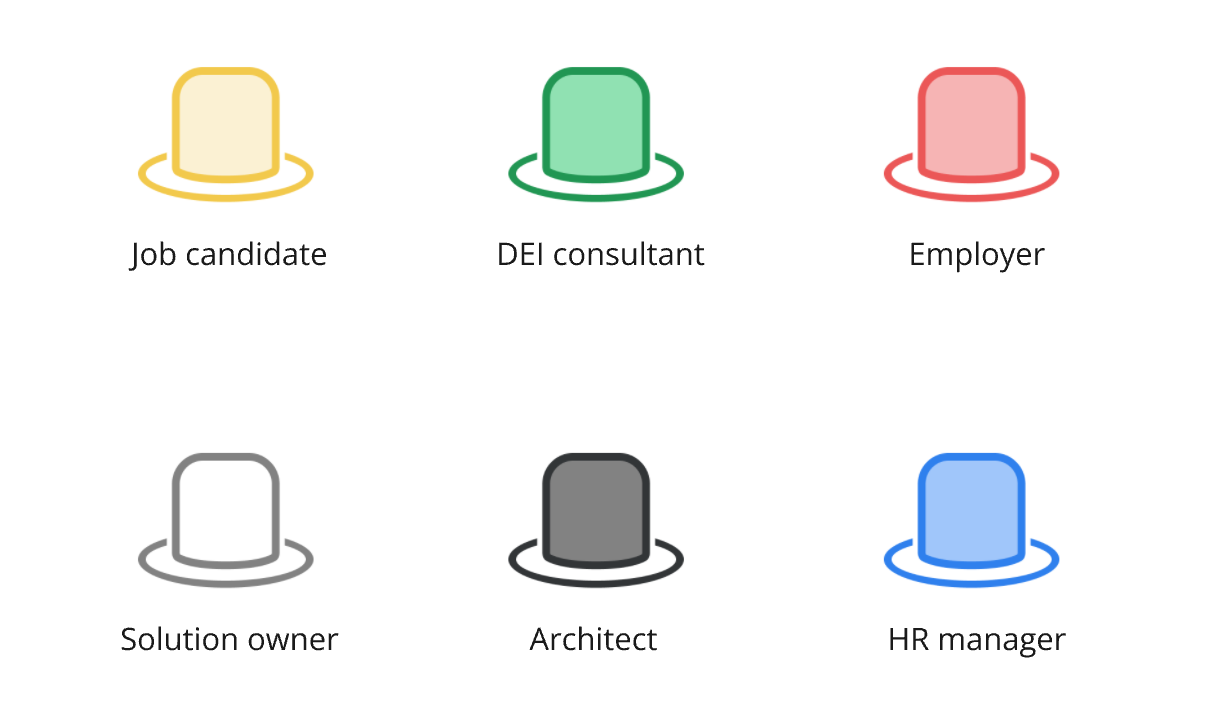
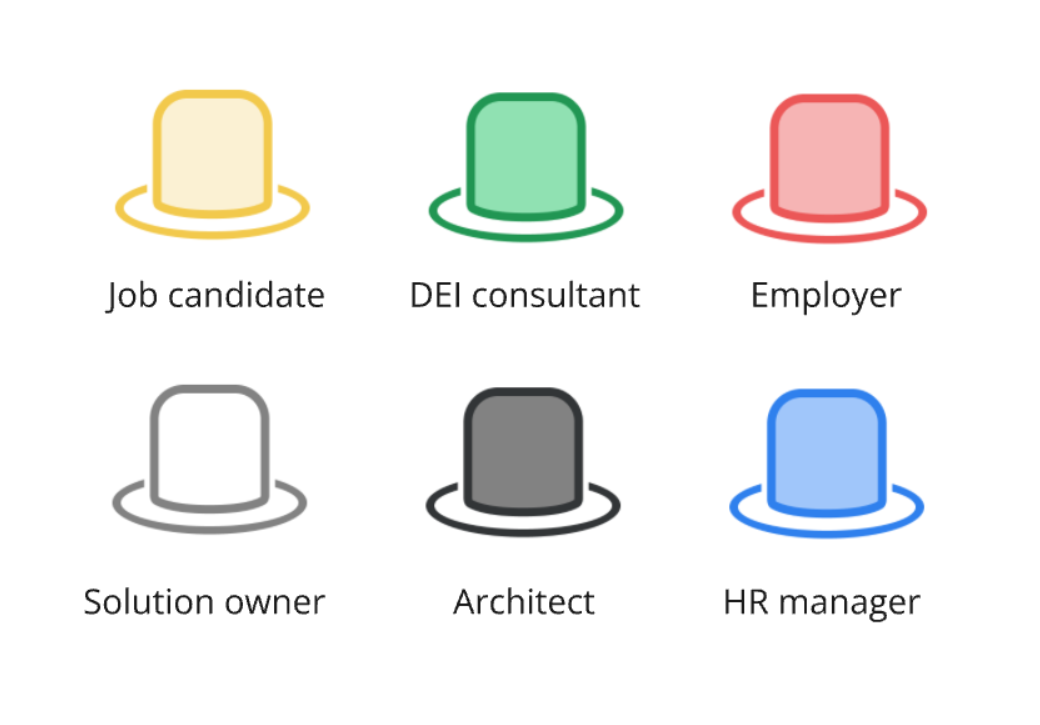
Update hats image in readme

diff --git a/README.md b/README.md
@@ -79,7 +79,10 @@ technique. In place of direct stakeholder meetings, we identified key perspectiv
 candidate, DEI consultant, employer, solution owner, architect, and HR manager. Each "hat" brought a different viewpoint
 to the table, helping us explore all dimensions of the hiring process from user experience to technical feasibility.
 
-<img src="Requirements/images/hats.PNG">
+<p align="center">
+  <img src="Requirements/images/hats.PNG" width="600px">
+</p>
+
 
 This method allowed us to rigorously evaluate and prioritize features based on their impact and alignment with our
 goals. Its success led us to continue using it in later phases, including the creation of the solution architecture,
